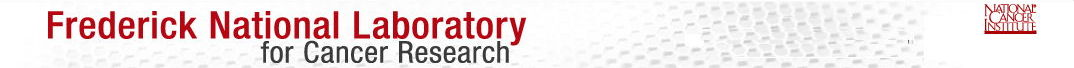
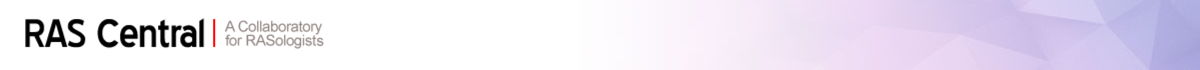
now has the RAScentral colors and header

diff --git a/public/stylesheets/latticegrid/RAS.css b/public/stylesheets/latticegrid/RAS.css
@@ -3,7 +3,7 @@ h1, h2, .h2, h3, .h3 {
     font-family: Arial, Helvetica, Geneva, Sans-serif;
     font-size: 13px;
     font-weight: bold;
-	color: #183470;
+	color: #111;
     line-height: 140%;
     padding-bottom: 0px;
     margin-bottom: 2px;
@@ -17,7 +17,7 @@ a:visited { color: #666; }
 	padding-top: 0.125em;
 	padding-bottom: 0px;
 	vertical-align:top;
-	color:        #183470;
+	color:        #222;
 	line-height: 14px;
 }
 
@@ -25,7 +25,7 @@ a:visited { color: #666; }
     font-family: Arial, Helvetica, Geneva, Sans-serif;
     font-size: 15px;
     font-weight: bold;
-    color: #183470;
+    color: #111;
     line-height: 140%;
     padding-bottom: 0px;
     margin-bottom: 2px;
@@ -33,38 +33,46 @@ a:visited { color: #666; }
     padding-top: 0px;
 }
 
+td.list-left, th.list-left {
+	color:        #222;
+}
+
 td.list-title-left {
 	padding-left: 1em;
-	color:        #183470;
+	color:        #CC330D;
 	font-weight:  bold;
+}
+
+#listing a {
+	color:        #222;
 }
 
 #listing .list-heading {
 	background-color: #CCC;
-	color:        #183470;
+	color:        #CC330D;
 	font-weight:  bold;
 }
 
 #listing .list-title {
-	color:        #183470;
+	color:        #CC330D;
 	font-weight:  bold;
 }
 
 #listing .list-title-center {
-	color:        #183470;
+	color:        #CC330D;
 	font-weight:  bold;
 	text-align: center;
 }
 
 #listing .list-title-right {
-	color:        #183470;
+	color:        #CC330D;
 	font-weight:  bold;
 	padding-right: 1em;
 	text-align: right;
 }
 
 #listing .list-title-right {
-	color:        #183470;
+	color:        #CC330D;
 	font-weight:  bold;
 	padding-right: 1em;
 	text-align: right;
@@ -72,23 +80,28 @@ td.list-title-left {
 
 /* --- HEADER --- */
 #banner {
-	border-bottom: 1px solid #183470;
+	border-bottom: 1px solid #CC330D;
 	margin-left:auto;
 	margin-right:auto;
-	width:1180px;
-	height:69px;
+	width:1200px;
+	height:70px;
 /*	background: url(../images/pageheader.jpg) ; */
 	vertical-align:bottom;
     text-align: center;
 	font-size:12px;
 	display: block;}
 
+#results {
+	margin: 0px;
+	padding: 0px;
+	display: block;}
+
 #main {
-	border: 1px #183470 solid;
+	border: 1px #CC330D solid;
 	margin-left: auto;
 	margin-right: auto;
 	padding: 0px;
-	width: 1180px;
+	width: 1200px;
 	height:auto;
 	vertical-align: top;
 	background-color: #FFFFFF;
@@ -101,24 +114,25 @@ td.list-title-left {
 	padding: 5px;
 	vertical-align: top;
 	width: 160px;
-	height: 790px;
+	height: 900px;
 	color: #000;
-	background-color: #CCC;
+	background-color: #FFF;
 }
 
 #title {
   margin: 0px;
-  padding: 5px;
+  height: 0px;
+  padding: 0px;
   padding-left: 20px;
-  padding-bottom: 10px;
-  font:  180% sans-serif;
-  color: #183470;
-  background-color: lightyellow;
+  padding-bottom: 0px;
+  font:  0px sans-serif;
+  color: #CC330D;
+  background-color: #CC330D;
 }
 
 #title a {
-  padding: 5px;
-  color: #183470;
+  padding: 0px;
+  color: #CC330D;
   text-decoration:none;
   background: none;
 }
@@ -127,25 +141,25 @@ td.list-title-left {
   padding: 3px;
   padding-left: 115px;
   margin: 0px;
-    color: #fff;
+    color: #FFF;
     font-size: 12px;
-    background-color: #09286B;
+    background-color: #CC330D;
 }
 
 #search a:hover { background-color: #CCC; }
 
 #niceline {
   padding-left: 50px;
-  height: 8px;
+  height: 0px;
   margin: 0px;
     color: #fff;
     font-size: 11px;
-    background-color: #CCC;
+    background-color: #FFF;
 }
 
 
 .ddsmoothmenu-v ul li a:link, .ddsmoothmenu-v ul li a:visited, .ddsmoothmenu-v ul li a:active{
-background: #09286B; /*background of menu items (default state)*/
+background: #CC330D; /*background of menu items (default state)*/
 color: white;
 }
 
@@ -161,5 +175,37 @@ color: white;
 }
 
 .ddsmoothmenu-v ul li ul li.current, .ddsmoothmenu-v ul li ul li.current a {
-	background-color: #09286B;
+	background-color: #CC330D;
 }
+
+/*** for DIGG style pagination  ***/
+.pagination {
+    padding: 3px;
+    margin: 3px;
+  }
+  .pagination a {
+    padding: 2px 5px 2px 5px;
+    margin: 2px;
+    border: 1px solid #CC330D;
+    text-decoration: none;
+    color: #CC330D;
+  }
+ .pagination a:hover, .pagination a:active {
+    border: 1px solid #CC330D;
+    color: #ddd;
+  }
+   .pagination span.current {
+    padding: 2px 5px 2px 5px;
+    margin: 2px;
+    border: 1px solid #CC330D;
+    font-weight: bold;
+    background-color: #CC330D;
+    color: #FFF;
+  }
+  .pagination span.disabled {
+    padding: 2px 5px 2px 5px;
+    margin: 2px;
+    border: 1px solid #eee;
+    color: #ddd;
+  }
+
